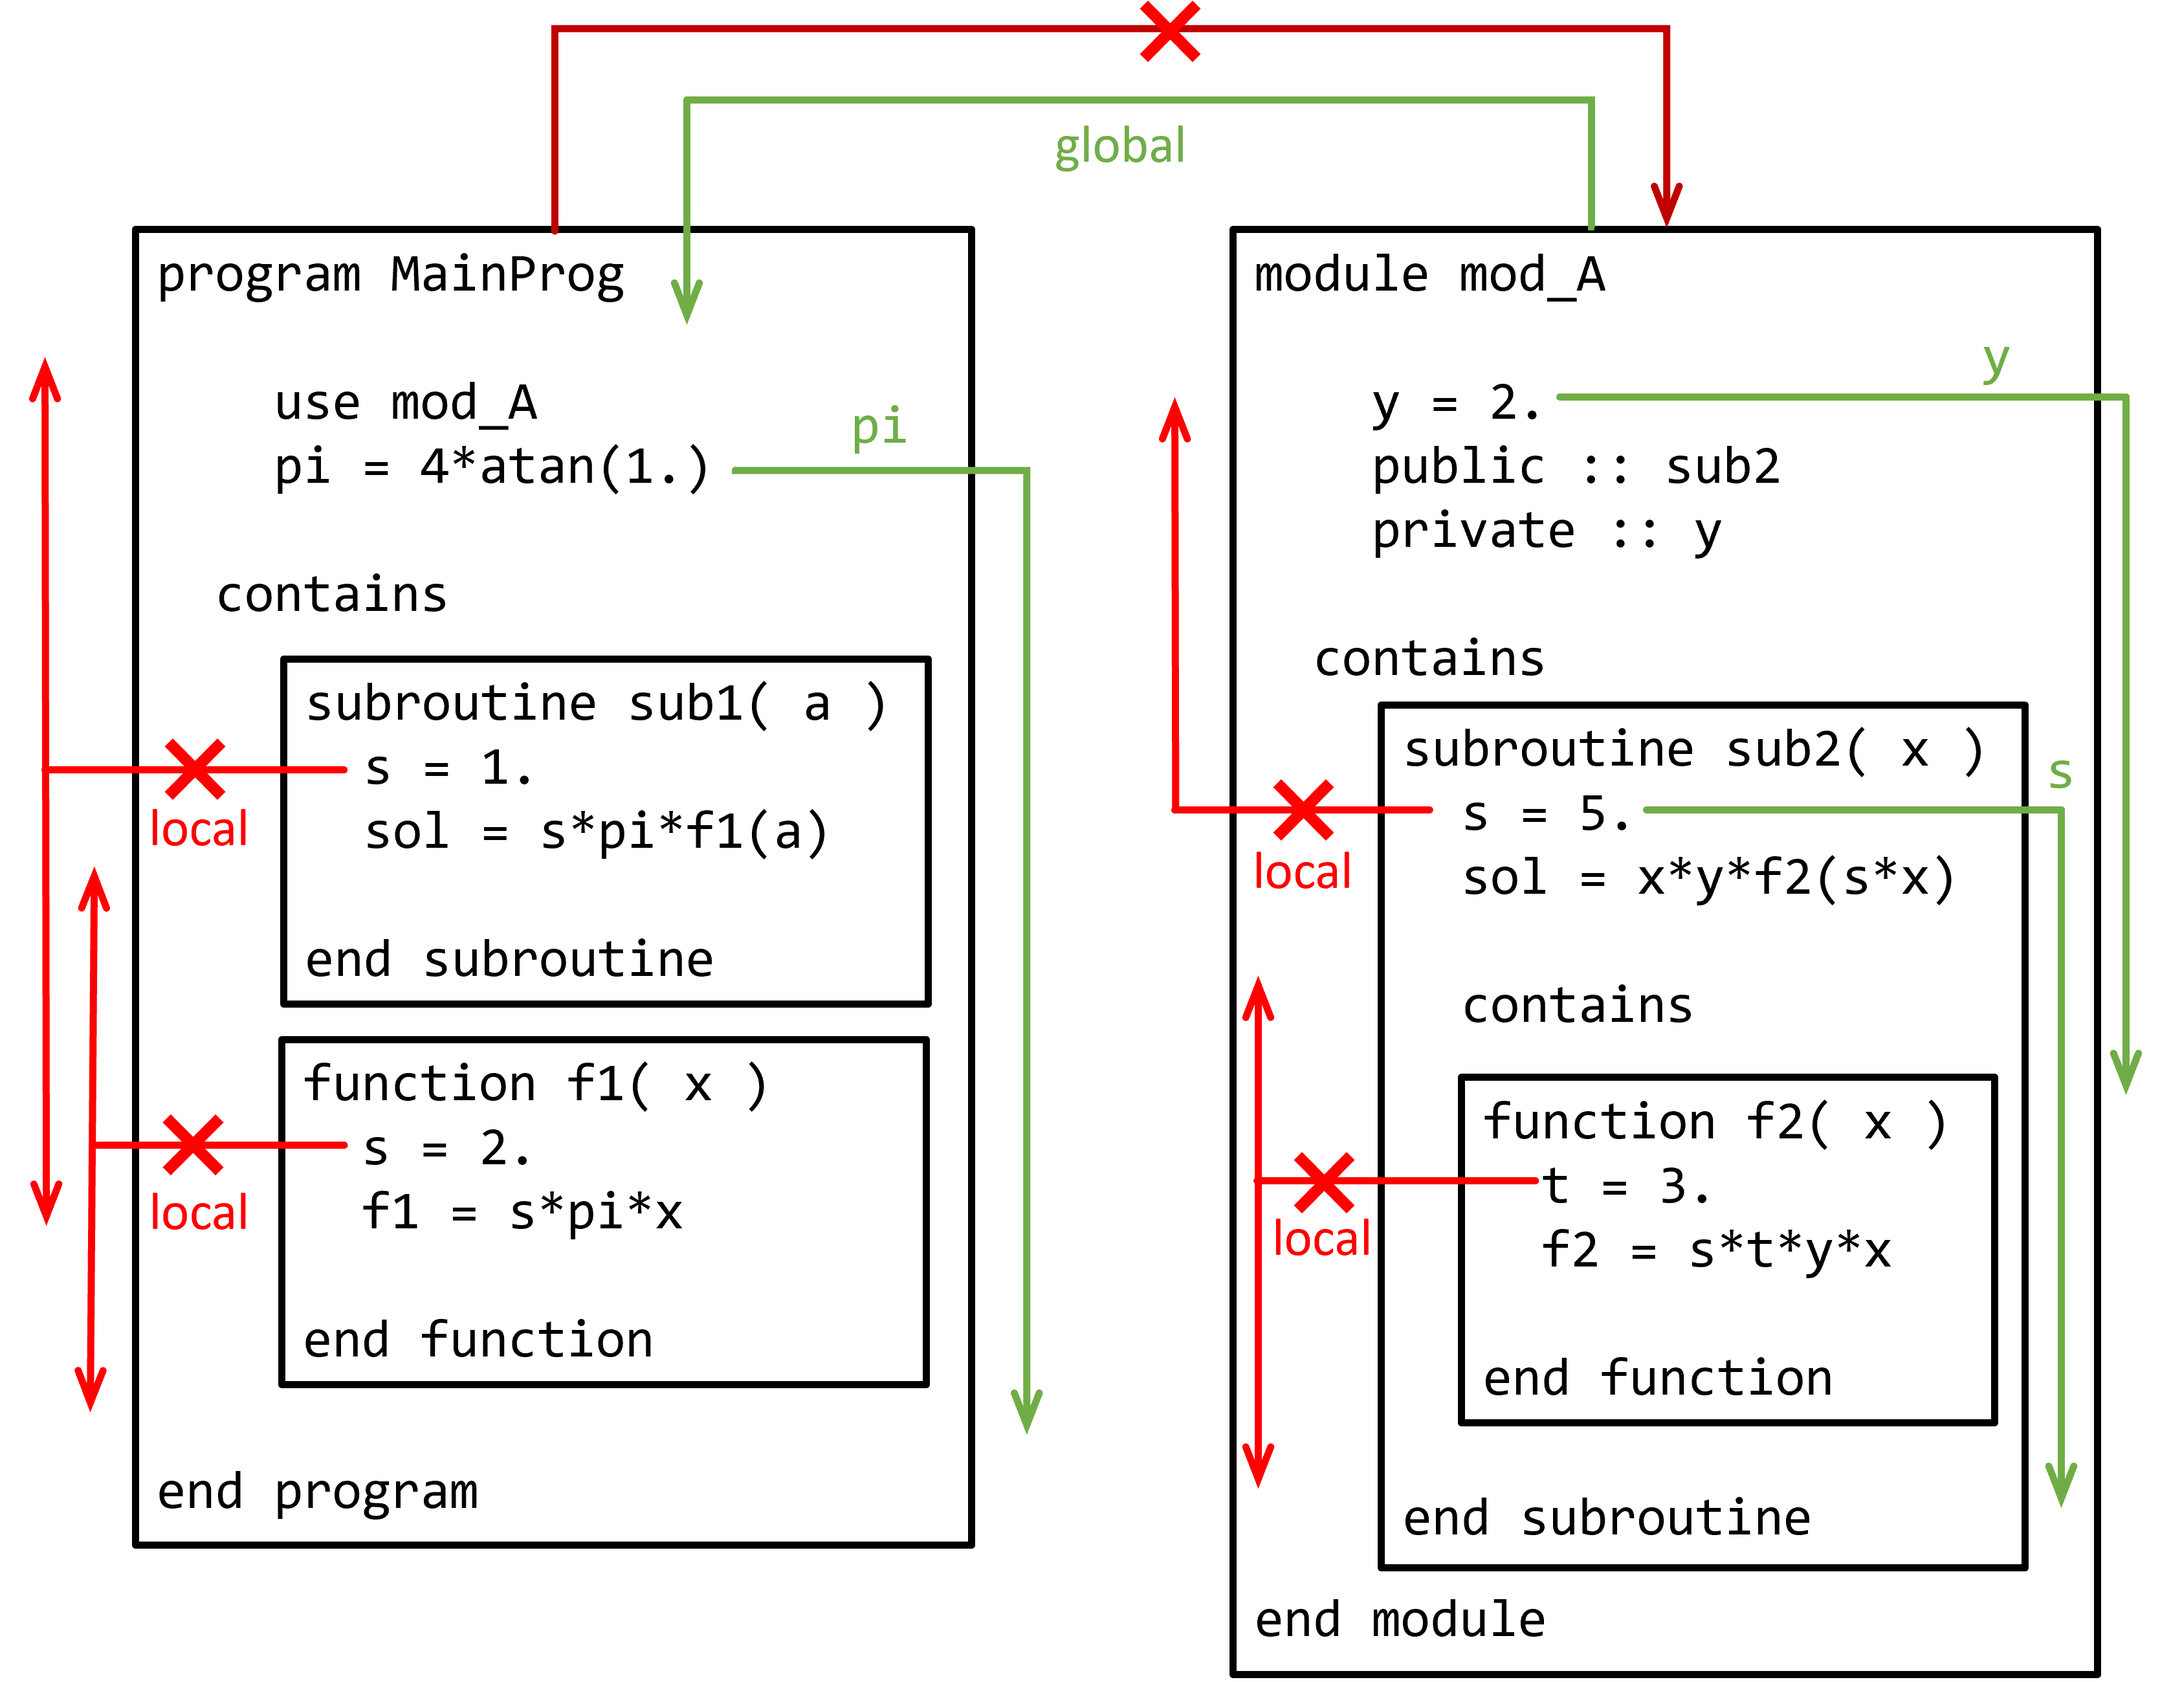
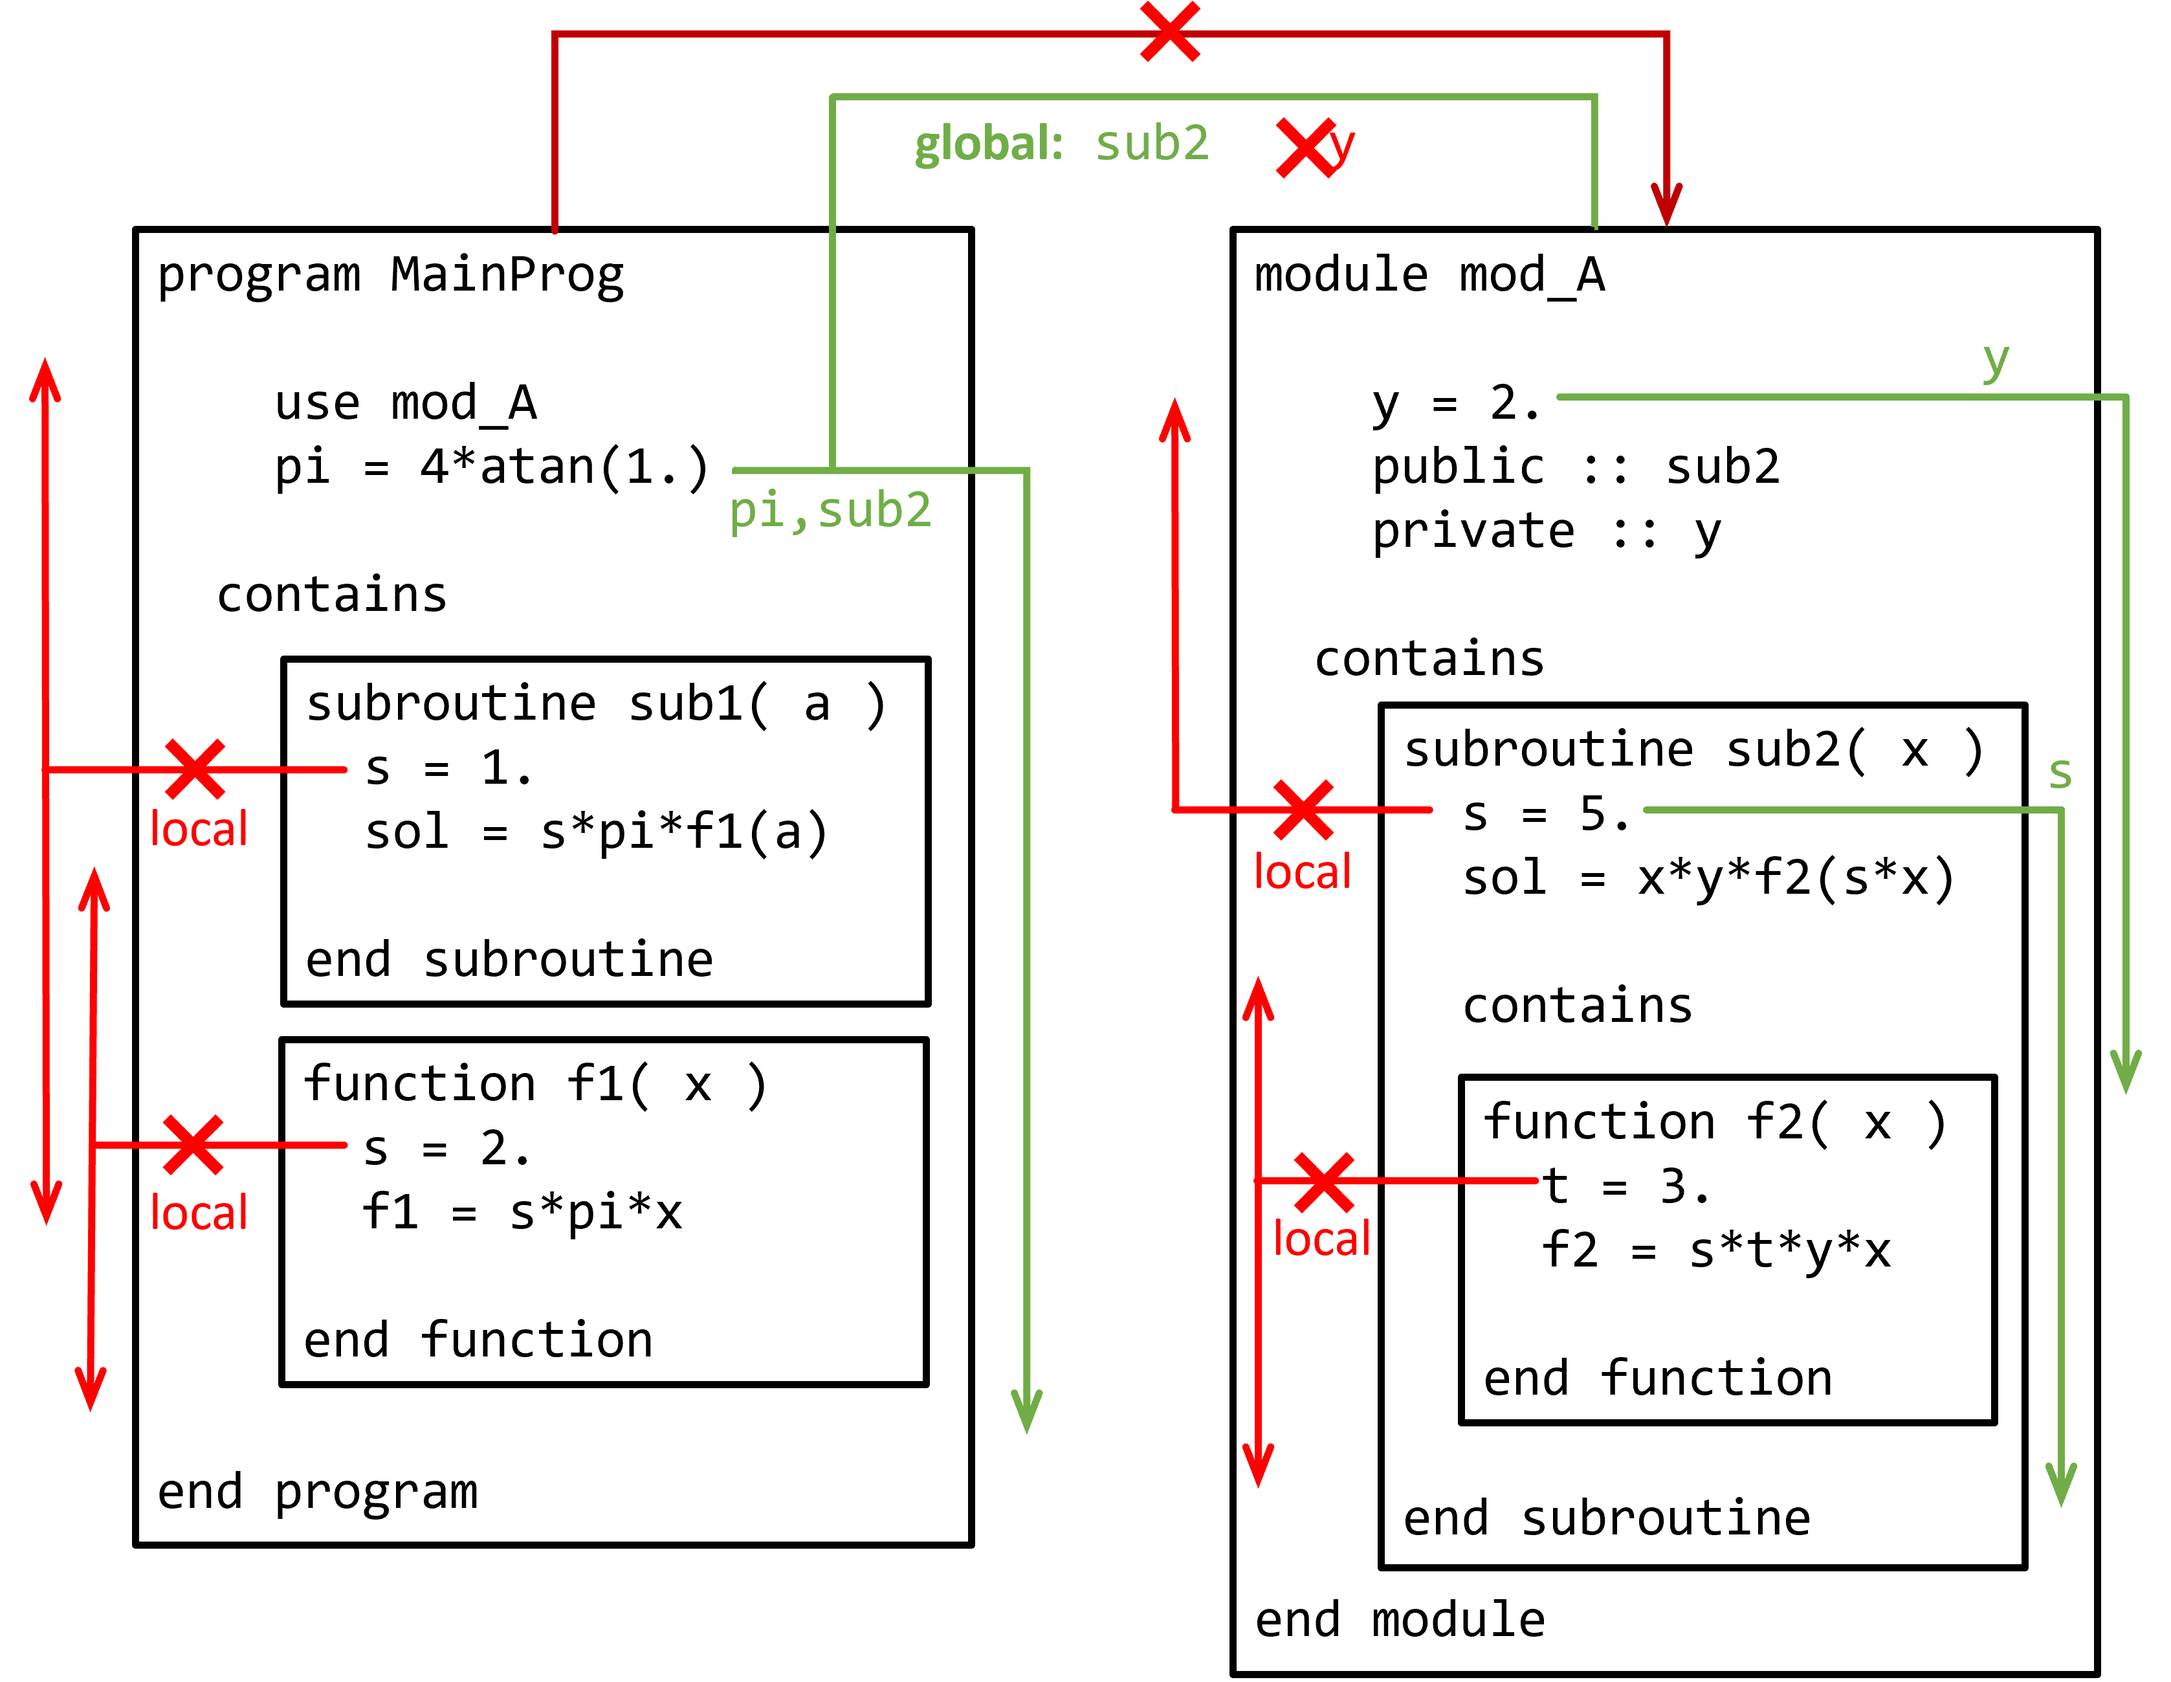
Some mods 1

Changed region(s): [[0.248, 0.0, 0.775, 0.3117]]

diff --git a/doc/Chapters/part_III/scope.tex b/doc/Chapters/part_III/scope.tex
@@ -1,13 +1,13 @@
 %__________________________________________________________________________________________________
 \chapter{Scope} 
 
-\section{Introduction}
+%\section{Introduction}
 
 In this section we take a deeper look at how the scope is treated in Fortran and Python since each programming language has its own particularities. 
 
 Fortran has two units of program (\texttt{program} and \texttt{module}) and two units of subprogram (\texttt{subroutine} and \texttt{function}).
-Program units can contain subprograms but remember that some subroutines can also contain functions, and even functions can contain other functions. 
-Each variable, named constant, function or procedure is treated in the following way (see Figure \ref{fig:ScopeFor}):
+Program units can contain subprograms but remember that subroutines can also contain functions, and even functions can contain other functions. 
+Each variable, named constant, function or procedure is treated in the following way according to its scope (see Figure \ref{fig:ScopeFor}):
 \begin{itemize}
     \item Everything declared at the beginning of a program/subprogram will be treated as global for that unit. Hence, all units of program nested will see the entity.
     This also includes the \texttt{use} statement, e.g. a main program using a module sees all the global entities of the module (variables, procedures, etc.). 
@@ -15,17 +15,20 @@ Each variable, named constant, function or procedure is treated in the following
     \item On the contrary, all entities declared inside subroutines and functions are local and its scope is limited to the procedure itself. 
     %Notice that the scope of the procedures follow the same rule, in the figure \ref{fig:ScopeFor} the function \texttt{f2( x )} is only accessible inside the subroutine \texttt{sub2( x )}.
     
-    \item If a local variable uses the same name as a global variable automatically becomes only local so it won't be able to access or modify the value of the global entity. 
+    \item If a local variable uses the same name as a global, it automatically becomes only local so it won't be able to access or modify the value of the global entity. 
     
     \item Between program units the entities are not shared unless the \texttt{use} statement makes the public entities visible. 
     When we build a module in Fortran we can decide which variables, procedures, etc. are \texttt{public} and which are \texttt{private}. 
     Hence, the main program or a different module that ``uses'' our module only sees the public entities.
+    
+    Another way to restrict the scope of objects declared in a module is by using the \texttt{only} clause with the \texttt{use} statement. 
+    If we want to make visible the subroutine \texttt{sub2} declared in a module \texttt{mod\_A} but not the rest of the content, we can write \texttt{use mod\_A, only sub2} in our main program. 
 \end{itemize}
 
 \begin{figure}[h]
     \centering
     \includegraphics[width= \textwidth]{./doc/Figures/ScopeFor.png}
-    \caption{Example of scope for different variables and constants in both program units in Fortran. Notice that \texttt{MainProg} sees all entities of \texttt{mod\_A} by default, however, since \texttt{y} is declared as private, it won't be seen. Furthermore, function \texttt{f2( x )} is only accessible inside the subroutine \texttt{sub2( x )}, it won't be accessible from anywhere else. Finally, notice that \texttt{sub1()} sees \texttt{f1()} since both are global in the main program.}
+    \caption{Example of scope for different variables and constants in both program units in Fortran. Notice that \texttt{MainProg} sees all entities of \texttt{mod\_A} by default, however, since \texttt{y} is declared as private, it won't be seen. Furthermore, function \texttt{f2( x )} is only accessible inside the subroutine \texttt{sub2( x )}, it won't be accessible from anywhere else. Finally, notice that \texttt{sub1( a )} sees \texttt{f1( x )} since both are global in the main program.}
     \label{fig:ScopeFor}
 \end{figure}
 
@@ -52,7 +55,7 @@ Each variable, object, function, etc. is treated in the following way (see Figur
 \begin{figure}[h]
     \centering
     \includegraphics[width= \textwidth]{./doc/Figures/ScopePy.png}
-    \caption{Example of scope for different variables and constants in the main application and a module in Python. Notice \texttt{Main.py} sees only \texttt{functionA} from \texttt{modA.py} due to the selective import. In addition, function \texttt{innerf()} is only accessible inside the \texttt{functionA()}, it won't be accessible from anywhere else.}
+    \caption{Example of scope for different variables and constants in the main application and a module in Python. Notice \texttt{Main.py} sees only \texttt{f2( x )} from \texttt{modA.py} due to the selective import. In addition, function \texttt{innerf2( x )} is only accessible inside \texttt{f2( x )}, it won't be accessible from anywhere else.}
     \label{fig:ScopePy}
 \end{figure}
 
@@ -63,7 +66,7 @@ Each variable, object, function, etc. is treated in the following way (see Figur
         \item Reduce the scope of variables and other entities as much as possible to avoid name collision or incorrect use of global entities. 
         A function for example should get all the information needed from local variables and input arguments, thereby ensuring its result does not depend on external pieces of code.
         
-        \item If a global variable is needed, then consider the use of \texttt{parameter} in Fortran so its value is protected from being change throughout the code. 
+        \item If a global variable is needed, then consider the use of \texttt{parameter} in Fortran so its value is protected from being changed throughout the code. 
         
         \item Using functions to modify the values of global variables (using \texttt{global} attribute in Python for example) is not recommended. 
     \end{itemize}    
@@ -91,16 +94,18 @@ More specifically, this means that $x$ is also seen in \texttt{functionB()}.
 
 
 \newpage  
-\section{Fortran}
+\section*{Fortran}
 
 \renewcommand{\home}{./Fortran/sources/Advanced_programming/scope} 
+
+\lstfor
 \listings{\home/modB.f90}{module modB}{end module}{modB.f90}
 
 \listings{\home/modA.f90}{module modA}{end module}{modA.f90}
 
 
 \newpage
-\section{Python}
+\section*{Python}
 
 \renewcommand{\home}{./Python/sources/Advanced_programming/scope} 
 
@@ -108,7 +113,7 @@ More specifically, this means that $x$ is also seen in \texttt{functionB()}.
 \listings{\home/modB.py}{from}{return}{modB.py}
 
 \listings{\home/modA.py}{x}{return}{modA.py}
-\lstfor
+
 
 
 
